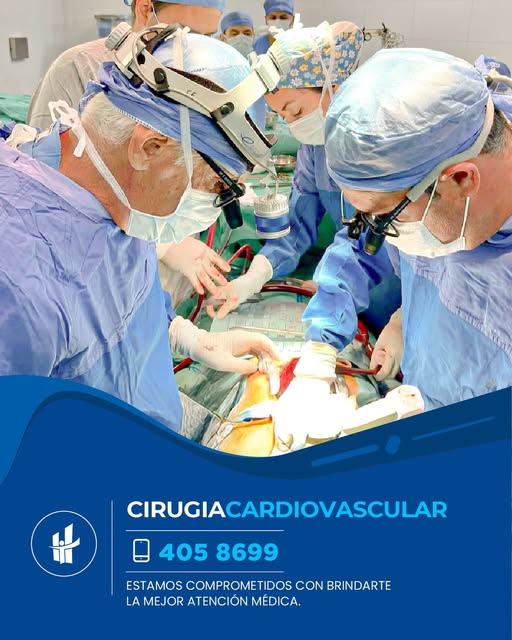
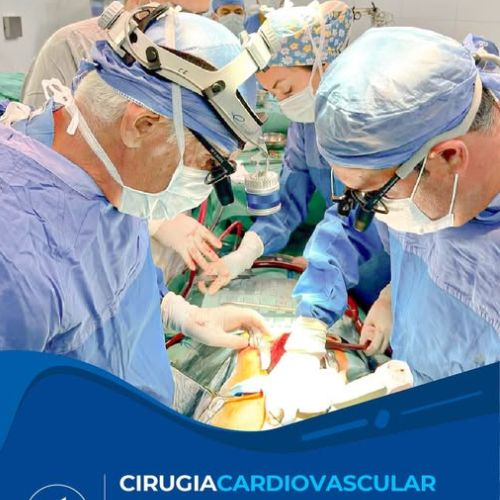
Agrego seccion intereses y habilidades de mi portafolio vuejs

diff --git a/src/components/HabilidadesComponentes.vue b/src/components/HabilidadesComponentes.vue
@@ -1,0 +1,139 @@
+<script setup>
+const skills = [
+  {
+    categoria: 'Lenguajes de Programación',
+    items: [
+      { nombre: 'JavaScript', nivel: 'Intermedio', icono: '/public/javascript.svg' },
+      { nombre: 'Python', nivel: 'Intermedio', icono: '/public/python.svg' },
+      { nombre: 'HTML/CSS', nivel: 'Intermedio', icono: '/public/html.svg' },
+      { nombre: 'Java', nivel: 'Intermedio', icono: '/public/java.svg' },
+      { nombre: 'SQL', nivel: 'Intermedio', icono: '/public/sql.svg' },
+    ],
+  },
+  {
+    categoria: 'Frameworks y Librerías',
+    items: [
+      { nombre: 'React.js', nivel: 'Intermedio', icono: '/public/react.svg' },
+      { nombre: 'Vue.js', nivel: 'Intermedio', icono: '/public/vue.svg' },
+      { nombre: 'Node.js', nivel: 'Intermedio', icono: '/public/node.svg' },
+      { nombre: 'Django', nivel: 'Intermedio', icono: '/public/django.svg' },
+      { nombre: 'Bootstrap', nivel: 'Intermedio', icono: '/public/bootstrap.svg' },
+    ],
+  },
+  {
+    categoria: 'Herramientas y Software',
+    items: [
+      { nombre: 'Git', nivel: 'Avanzado', icono: '/public/git.svg' },
+      { nombre: 'Docker', nivel: 'Intermedio', icono: '/public/docker.svg' },
+      { nombre: 'Cypress', nivel: 'Intermedio', icono: '/public/Cypress.svg' },
+      { nombre: 'Figma', nivel: 'Intermedio', icono: '/public/figma.svg' },
+      { nombre: 'Visual Studio Code', nivel: 'Avanzado', icono: '/public/visual.svg' },
+    ],
+  },
+  {
+    categoria: 'Bases de Datos',
+    items: [
+      { nombre: 'MongoDB', nivel: 'Avanzado', icono: '/public/mongo.svg' },
+      { nombre: 'MySQL', nivel: 'Intermedio', icono: '/public/sql.svg' },
+      { nombre: 'PostgreSQL', nivel: 'Intermedio', icono: '/public/postgresql.svg' },
+    ],
+  },
+  {
+    categoria: 'Idiomas',
+    items: [
+      { nombre: 'Español', nivel: 'Nativo', icono: '/public/spanish.svg' },
+      { nombre: 'Inglés', nivel: 'Intermedio', icono: '/public/inglish.svg' },
+    ],
+  },
+]
+</script>
+
+<template>
+  <div v-for="(grupo, index) in skills" :key="index" class="skills-contenedor">
+    <h3>{{ grupo.categoria }}</h3>
+    <ul class="skills-categoria">
+      <li v-for="(item, i) in grupo.items" :key="i" class="skill">
+        <img :src="item.icono" :alt="item.nombre" />
+        <span>{{ item.nombre }}</span>
+        <span class="nivel">{{ item.nivel }}</span>
+      </li>
+    </ul>
+  </div>
+</template>
+
+
+<style scoped>
+
+.skills-contenedor {
+  margin: 2rem auto;
+  padding: 1rem;
+  border-bottom: 1px solid #ccc;
+  max-width: 900px; /* Limita el ancho para que no se desparrame */
+  text-align: center;
+  background-color: #090909 ;
+}
+
+.skills-contenedor h3 {
+  font-size: 1.4rem;
+  font-weight: 600;
+  margin-bottom: 1rem;
+  color: #f0f1f3;
+  border-left: 4px solid #f6f8f9;
+  padding-left: 0.5rem;
+  display: inline-block;
+  text-align: left;
+}
+
+.skills-categoria {
+  list-style: none;
+  padding: 0;
+  display: flex;
+  flex-wrap: wrap;
+  justify-content: center; /* Centra las tarjetas */
+  gap: 1rem;
+}
+
+.skill {
+  display: flex;
+  flex-direction: column;
+  align-items: center;
+  width: 120px;
+  text-align: center;
+  background-color: #2c5364;
+  border-radius: 8px;
+  padding: 0.8rem;
+  box-shadow: 0 2px 6px rgba(0, 0, 0, 0.1);
+}
+
+.skill img {
+  width: 40px;
+  height: 40px;
+  object-fit: cover;
+  margin-bottom: 0.5rem;
+  border-radius: 50%; /* Hace el ícono circular */
+  border: 1px solid #f0f0f0;
+}
+
+.skill span {
+  font-size: 0.9rem;
+  color: #faf8f8;
+}
+.skill {
+  display: flex;
+  flex-direction: column;
+  align-items: center;
+  width: 120px;
+  text-align: center;
+  background-color: #2c5364;
+  border-radius: 8px;
+  padding: 0.8rem;
+  box-shadow: 0 2px 6px rgba(0, 0, 0, 0.1);
+  transition: transform 0.3s ease, box-shadow 0.3s ease;
+}
+
+.skill:hover {
+  transform: scale(1.08);
+  box-shadow: 0 4px 12px rgba(255, 255, 255, 0.2);
+}
+
+</style>

diff --git a/src/components/InteresesComponentes.vue b/src/components/InteresesComponentes.vue
@@ -1,0 +1,84 @@
+<script setup>
+</script>
+
+<template>
+  <div class="intereses-contenedor">
+    <ul class="contenedor-lista">
+      <li class="item">
+        Me destaco por mi capacidad para trabajar en equipo y colaborar en entornos multidisciplinarios.
+        Me interesan profundamente los sistemas de software vinculados al área de salud, ya que desde hace años desarrollo mi carrera profesional en ese ámbito.
+      </li>
+      <li class="item">
+        La música es la base de mis pasatiempos: me acompaña en el día a día y me inspira en lo personal y profesional.
+        También disfruto de la lectura como forma de aprendizaje y desconexión.
+      </li>
+      <li class="item">
+        Me apasiona todo lo relacionado con sistemas de salud, especialmente aquellos que permiten mejorar la gestión, la comunicación y la experiencia de pacientes y profesionales.
+        Busco integrar tecnología con impacto humano.
+      </li>
+      <li class="item">
+        Me desempeño en el quirófano dentro del área de salud, lo que me permite comprender en profundidad las necesidades reales del entorno hospitalario.
+        Esta experiencia me motiva a combinar mis conocimientos técnicos con soluciones digitales que aporten valor al sistema sanitario.
+      </li>
+    </ul>
+  </div>
+</template>
+<style scoped>
+.intereses-contenedor {
+  display: flex;
+  position: relative;
+  margin: 0 auto;
+  max-width: 85%;
+  padding: 2rem;
+  background: linear-gradient(135deg, #0f2027, #203a43, #2c5364);
+  border-radius: 12px;
+  box-shadow: 0 0 20px rgba(0, 0, 0, 0.4);
+  flex-direction: column;
+  z-index: 1;
+}
+
+.contenedor-lista {
+  list-style-type: none;
+  padding: 1rem;
+  margin-bottom: 5rem;
+  color: #f0f6fc;
+  font-size: 1.2rem;
+  text-shadow: 2px 2px 4px rgba(0, 0, 0, 0.8);
+  display: flex;
+  flex-direction: column;
+  gap: 1.5rem;
+}
+
+.item {
+  position: relative;
+  padding-left: 1.5rem;
+  animation: fadeInUp 0.8s ease forwards;
+  opacity: 0;
+}
+
+/* Puntito decorativo */
+.item::before {
+  content: '';
+  position: absolute;
+  left: 0;
+  top: 0.6rem;
+  width: 10px;
+  height: 10px;
+  background-color: #58a6ff;
+  border-radius: 50%;
+  box-shadow: 0 0 6px #58a6ff;
+}
+
+/* Animación moderna */
+@keyframes fadeInUp {
+  from {
+    transform: translateY(20px);
+    opacity: 0;
+  }
+  to {
+    transform: translateY(0);
+    opacity: 1;
+  }
+}
+
+</style>

diff --git a/src/App.vue b/src/App.vue
@@ -4,6 +4,9 @@ import DatosPersonales from './components/DatosPersonales.vue';
 import Educacion from './components/EducacionComponente.vue';
 import ExperienciaComponente from './components/ExperienciaComponente.vue';
 import ProyectosComponentes from './components/ProyectosComponentes.vue';
+import HabilidadesComponentes from './components/HabilidadesComponentes.vue';
+import InteresesComponente from './components/InteresesComponentes.vue';
+
 </script>
 
 <template>
@@ -26,7 +29,12 @@ import ProyectosComponentes from './components/ProyectosComponentes.vue';
     <section id="proyectos"><h2>Proyectos </h2></section>
     <ProyectosComponentes />
     <section id="habilidades"><h2>Habilidades</h2></section>
+    <HabilidadesComponentes />
     <section id="intereses"><h2>Intereses</h2></section>
+    <InteresesComponente />
+    
+    
+    
   </main>
   
   
@@ -35,6 +43,32 @@ import ProyectosComponentes from './components/ProyectosComponentes.vue';
 <style scoped>
 
 
+section {
+  margin: 3rem 0;
+  padding-bottom: 1rem;
+  border-bottom: 2px solid rgba(255, 255, 255, 0.2); /* línea blanca moderna */
+}
+
+section h2 {
+  text-align: center;
+  font-weight: bold;
+  font-size: 1.8rem;
+  color: #f0f6fc;
+  margin-bottom: 1rem;
+  text-shadow: 2px 2px 4px rgba(0, 0, 0, 0.6);
+}
+h2 {
+  font-size: 2rem; /* más grande */
+  font-weight: bold;
+  text-align: center;
+  background: linear-gradient(135deg, #2c3e50, #000000); /* fondo azul degradado */
+  color: #f0f6fc;
+  padding: 1rem;
+  border-radius: 8px;
+  margin-bottom: 1.5rem;
+  box-shadow: 0 4px 12px rgba(0, 0, 0, 0.3);
+  text-shadow: 1px 1px 3px rgba(0, 0, 0, 0.6);
+}
 
 
 </style>

diff --git a/src/components/ProyectosComponentes.vue b/src/components/ProyectosComponentes.vue
@@ -16,7 +16,7 @@ const proyectos = [
     descripcion:
       "Formé parte del equipo que desarrolló el sistema hospitalario del Servicio de Cirugía Cardiovascular y de Trasplante del Hospital Italiano de Mendoza, integrando soluciones digitales para optimizar procesos médicos y administrativos.",
     imagen: "/src/assets/cirugia-cardiovascular.jpg",
-    enlaceProyecto: "",
+    enlaceProyecto: "http://168.227.97.240/pages-login.php",
     enlaceGithub: "https://github.com/OskyMendez",
   },
   {
